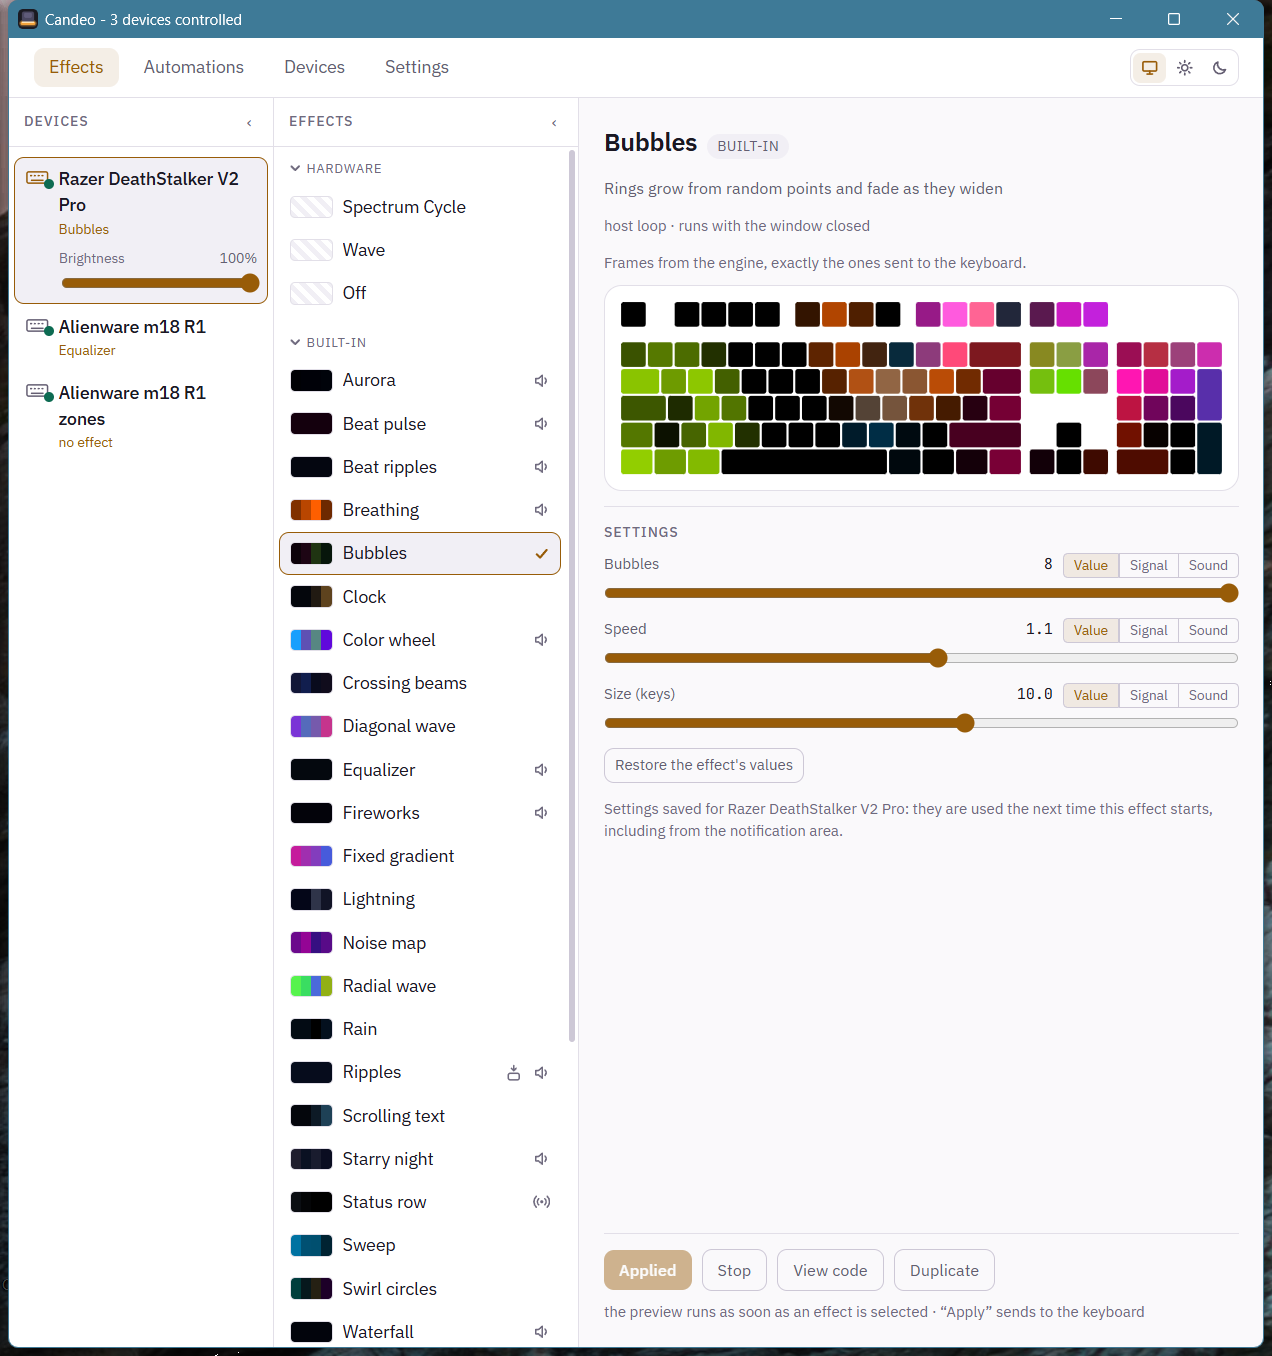
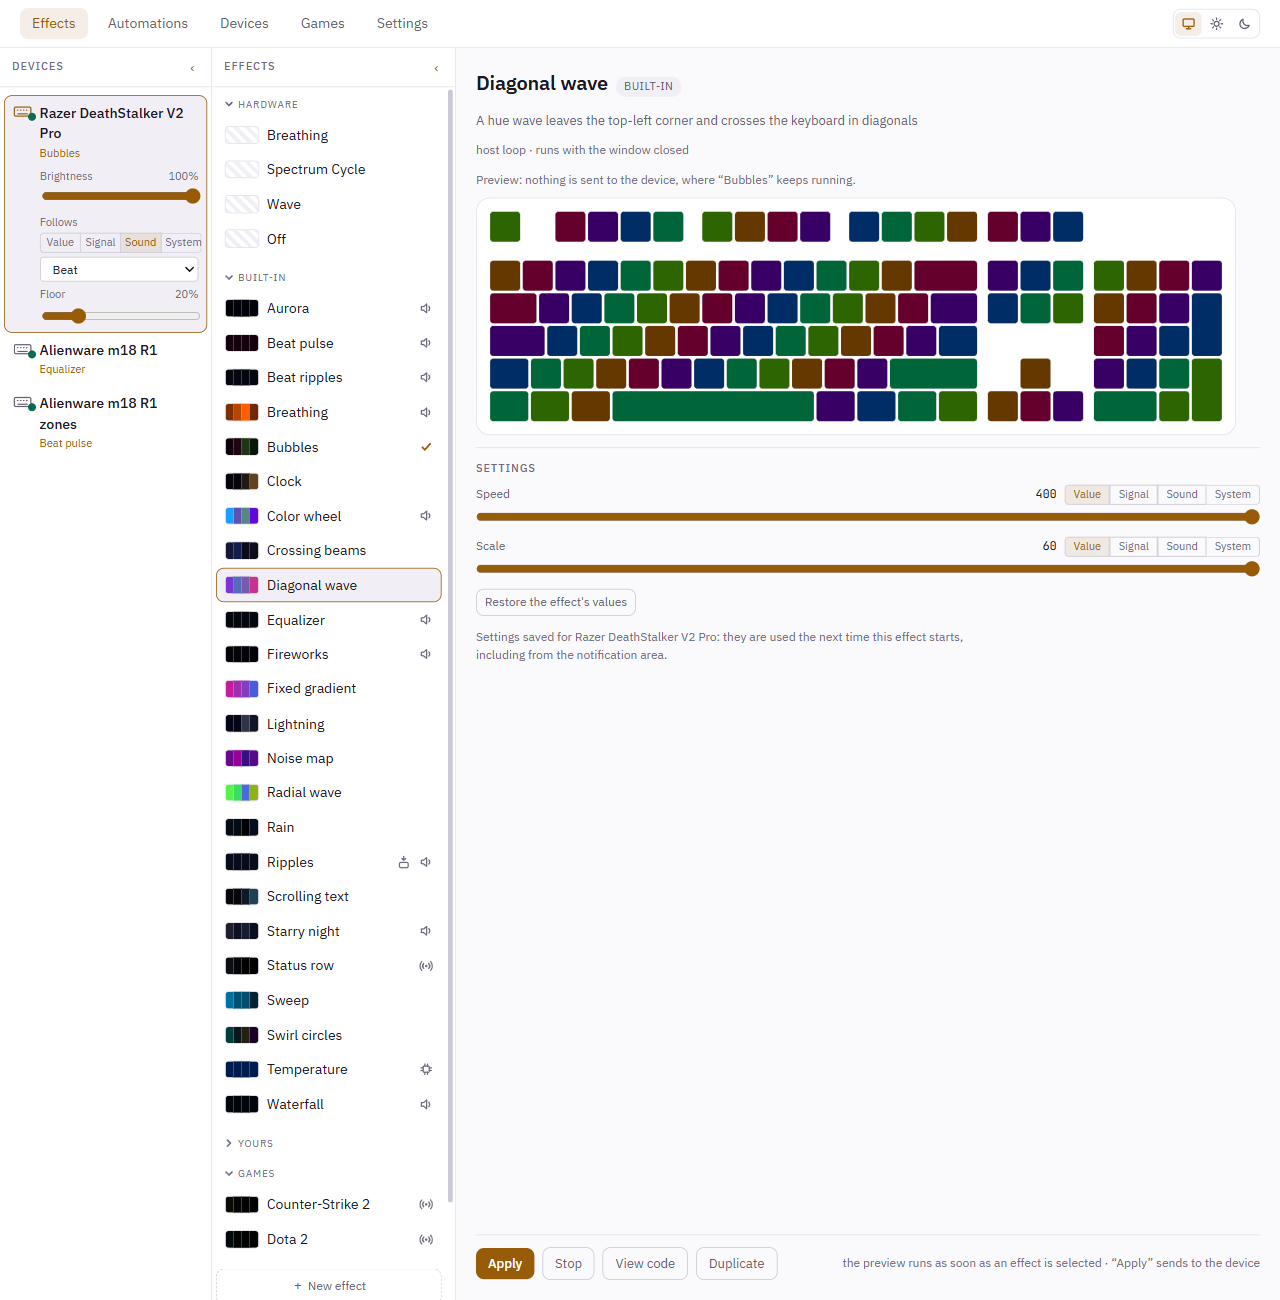
docs: refresh the Store listing, the site's counts and its gallery
Regions, games, system sources and the devices to try in both listings; twenty-six effects; a new gallery capture; the certification notes name every supported device.

Changed region(s): [[0.0, 0.0, 1.0, 1.0], [0.3986, 0.7692, 0.4292, 0.8]]

diff --git a/site/index.html b/site/index.html
@@ -6,7 +6,7 @@
     <title>Candeo — your keyboard's lights, your way</title>
     <meta
       name="description"
-      content="Light your keyboard your way: twenty-four effects, lights that follow your music, rules and signals from your other tools — without the maker's software, an account or anything sent anywhere. Free and open source."
+      content="Light your keyboard your way: twenty-six effects, lights that follow your music, rules and signals from your other tools — without the maker's software, an account or anything sent anywhere. Free and open source."
     />
     <link rel="icon" href="assets/icon.png" />
     <link rel="preconnect" href="https://fonts.googleapis.com" />
@@ -54,9 +54,9 @@
         <figure>
           <img
             src="assets/gallery.png"
-            alt="The Candeo gallery: the devices on the left, the effects in the middle marked by what they react to, and the effect applied drawn on a keyboard with its settings."
-            width="1272"
-            height="1356"
+            alt="The Candeo gallery: the devices on the left, the effects in the middle marked by what they react to, and the effect selected drawn on a keyboard with its settings."
+            width="1280"
+            height="1300"
           />
           <figcaption>Pick an effect, tune it while you watch, apply it.</figcaption>
         </figure>
@@ -79,7 +79,7 @@
       </section>
 
       <section>
-        <h2>Twenty-four effects, ready to go</h2>
+        <h2>Twenty-six effects, ready to go</h2>
         <div class="ways">
           <div class="way" style="--tint: linear-gradient(90deg, #ff3b3b, #ffb13b, #f5ff3b, #3bff6e, #3bd5ff, #6b3bff, #ff3bd5)">
             <h3>Colour and motion</h3>
@@ -170,7 +170,7 @@
         </p>
         <p>
           A laptop's lights split into regions, each with its own effect: the keyboard to the
-          music, the lid to the CPU's temperature.
+          music, the lid to how hot the computer runs.
         </p>
         <p>
           More keyboards and laptops — Razer, ASUS, SteelSeries, Logitech, HyperX, and seventeen

diff --git a/site/devices.html b/site/devices.html
@@ -55,8 +55,8 @@
           Where a device's lights sit in several places — the Alienware 17 R5's keyboard, lid and
           base, the ring and the logo of the m18 R1 — Devices can split it into regions. Each
           region then runs its own effect, with its own settings and its own way of following
-          the sound or a signal: the keyboard dancing to the music while the lid shows the CPU's
-          temperature.
+          the sound or a signal: the keyboard dancing to the music while the lid shows how hot the
+          computer runs.
         </p>
       </section>
 

diff --git a/site/effects.html b/site/effects.html
@@ -372,7 +372,7 @@ export default defineEffect({
       <section>
         <h2>Learn from the shipped ones</h2>
         <p>
-          The twenty-four effects that ship with Candeo are written against this same API. Open one
+          The twenty-six effects that ship with Candeo are written against this same API. Open one
           in the editor, or <strong>Duplicate</strong> it to make it yours:
           <a href="{{repository}}/tree/main/packages/effects">packages/effects</a>. An effect is a
           file: share it, drop one in <code>Documents\candeo\effects</code>, and

diff --git a/packaging/store/listing-fr.md b/packaging/store/listing-fr.md
@@ -10,13 +10,16 @@ L'éclairage de votre clavier, exactement comme vous le voulez, sans le logiciel
 
 ## Description
 
-Faites briller votre clavier exactement comme vous l'entendez. Candeo pilote chaque touche directement — vingt-quatre effets prêts à l'emploi, un aperçu en direct, des règles qui changent l'éclairage d'elles-mêmes — sans logiciel du fabricant, sans service en arrière-plan et sans compte.
+Faites briller votre clavier exactement comme vous l'entendez. Candeo pilote chaque touche directement — vingt-six effets prêts à l'emploi, un aperçu en direct, des règles qui changent l'éclairage d'elles-mêmes — sans logiciel du fabricant, sans service en arrière-plan et sans compte.
 
-Compatible avec le Razer DeathStalker V2 Pro (filaire), l'Alienware m18 R1, son clavier et ses zones lumineuses, et l'Alienware 17 R5. Un appareil pris en charge est nécessaire ; la liste s'allonge sur https://o2csi.github.io/candeo/devices.html.
+Compatible avec le Razer DeathStalker V2 Pro (filaire), l'Alienware m18 R1, son clavier et ses zones lumineuses, et l'Alienware 17 R5 — et d'autres claviers et portables à essayer, de Razer, ASUS, SteelSeries, Logitech, HyperX, Alienware et Dell. Un appareil pris en charge est nécessaire ; la liste s'allonge sur https://o2csi.github.io/candeo/devices.html.
 
 POINTS FORTS
-• Vingt-quatre effets prêts à l'emploi : des ondes qui suivent votre frappe, la pluie, un ciel étoilé, des éclairs, une horloge qui fait défiler l'heure sur les touches, le texte de votre choix qui défile de la même façon, des barres et des gerbes qui dansent sur la musique que vous écoutez, une rangée d'état pour ce que disent vos autres outils… Réglez chacun en le regardant.
+• Vingt-six effets prêts à l'emploi : des ondes qui suivent votre frappe, la pluie, un ciel étoilé, des éclairs, une horloge qui fait défiler l'heure sur les touches, le texte de votre choix qui défile de la même façon, des barres et des gerbes qui dansent sur la musique que vous écoutez, une rangée d'état pour ce que disent vos autres outils… Réglez chacun en le regardant.
 • Chaque touche, sa couleur : toute la matrice, des dégradés, et les effets intégrés au micrologiciel de votre appareil.
+• Un appareil, plusieurs effets : scindez les lumières d'un portable en régions, chacune avec son effet — le clavier qui danse sur la musique pendant que le capot montre la chaleur de l'ordinateur.
+• Vos jeux sur votre clavier : votre santé, vos munitions, les flashs et la bombe dans Counter-Strike 2, la vie, le mana et les étourdissements de votre héros dans Dota 2 — puis votre effet revient après la partie.
+• Votre ordinateur d'un coup d'œil : la charge du processeur et de la carte graphique, la mémoire et les températures peuvent piloter n'importe quel paramètre ou la luminosité.
 • Un éclairage qui suit votre journée : l'heure à chaque heure pile, le clavier éteint la nuit ou quand vous vous absentez — puis votre effet revient tout seul.
 • Écrivez les vôtres : un effet est un petit fichier TypeScript, prévisualisé en direct sur un simulateur de clavier avant d'atteindre le matériel. Modifiez-le dans Candeo ou dans l'éditeur dont vous avez l'habitude.
 • Des signaux venus de vos autres outils : un script de compilation ou Home Assistant dit à Candeo ce qui se passe. Une règle change l'éclairage tant que c'est le cas, ou n'importe quel paramètre de l'effet en cours suit la valeur envoyée — une couleur, une vitesse. Désactivé tant que vous ne l'activez pas.
@@ -28,9 +31,12 @@ Open source, sous licence GPL-3.0.
 
 ## Fonctionnalités (liste courte, affichée sur la page du Store)
 
-- Vingt-quatre effets prêts à l'emploi, réglables en les regardant
+- Vingt-six effets prêts à l'emploi, réglables en les regardant
 - Des effets qui dansent sur la musique que vous écoutez
 - Chaque touche sa couleur, et les effets du micrologiciel de votre appareil
+- Scindez un appareil en régions, un effet chacune
+- Counter-Strike 2 et Dota 2 sur votre clavier
+- La charge et la température du processeur et de la carte graphique pilotent l'éclairage
 - Automatisations : l'heure à chaque heure pile, éteint la nuit ou pendant votre absence
 - Écrivez vos propres effets en TypeScript, avec aperçu en direct
 - Continue de tourner fenêtre fermée, depuis la zone de notification

diff --git a/packaging/store/listing-en.md b/packaging/store/listing-en.md
@@ -11,13 +11,16 @@ Your keyboard's lighting, exactly the way you want it, without the maker's softw
 
 ## Description
 
-Make your keyboard light up exactly the way you want. Candeo drives every key directly — twenty-four ready-made effects, a live preview, rules that change the lighting on their own — without the maker's software, without a background service and without an account.
+Make your keyboard light up exactly the way you want. Candeo drives every key directly — twenty-six ready-made effects, a live preview, rules that change the lighting on their own — without the maker's software, without a background service and without an account.
 
-Works with the Razer DeathStalker V2 Pro (wired), the Alienware m18 R1, its keyboard and its lighting zones, and the Alienware 17 R5. A supported device is required; the list grows at https://o2csi.github.io/candeo/devices.html.
+Works with the Razer DeathStalker V2 Pro (wired), the Alienware m18 R1, its keyboard and its lighting zones, and the Alienware 17 R5 — and offers to try more keyboards and laptops from Razer, ASUS, SteelSeries, Logitech, HyperX, Alienware and Dell. A supported device is required; the list grows at https://o2csi.github.io/candeo/devices.html.
 
 HIGHLIGHTS
-• Twenty-four effects, ready to go: ripples that follow your typing, rain, a starry night, lightning, a clock that scrolls the time across the keys, any text you choose scrolling the same way, bars and bursts that dance to the music you play, a status row for what your other tools report… Tune each one while you watch it.
+• Twenty-six effects, ready to go: ripples that follow your typing, rain, a starry night, lightning, a clock that scrolls the time across the keys, any text you choose scrolling the same way, bars and bursts that dance to the music you play, a status row for what your other tools report… Tune each one while you watch it.
 • Every key, its own colour: the whole matrix, gradients, and the effects built into your device's firmware.
+• One device, several effects: split a laptop's lights into regions, each with its own effect — the keyboard dancing to the music while the lid shows how hot the computer runs.
+• Your games on your keyboard: your health, ammo, flashes and the bomb in Counter-Strike 2, your hero's health, mana and stuns in Dota 2 — then your effect comes back after the match.
+• Your computer, at a glance: CPU and GPU load, memory and temperatures can drive any setting or the brightness.
 • Lighting that follows your day: the time on the hour, the keyboard dark at night or when you step away — and your effect comes back on its own.
 • Write your own: an effect is a small TypeScript file, previewed live on a keyboard simulator before it reaches the hardware. Edit it in Candeo or in the editor you already use.
 • Signals from your other tools: a build script or Home Assistant tells Candeo what happened. A rule switches the lighting while it holds, or any setting of the effect running follows the value sent — a colour, a speed. Off until you turn it on.
@@ -29,9 +32,12 @@ Open source, under the GPL-3.0.
 
 ## Features (a short list, shown on the Store page)
 
-- Twenty-four ready-made effects, tuned while you watch them
+- Twenty-six ready-made effects, tuned while you watch them
 - Effects that dance to the music you play
 - Every key its own colour, plus your device's firmware effects
+- Split a device into regions, one effect each
+- Counter-Strike 2 and Dota 2 on your keyboard
+- CPU and GPU load and temperature drive the lighting
 - Automations: the time on the hour, dark at night or when you step away
 - Write your own effects in TypeScript, with a live preview
 - Keeps running with the window closed, from the notification area

diff --git a/README.md b/README.md
@@ -11,7 +11,7 @@ account, no extra services to install, nothing sent anywhere.
 **[o2csi.github.io/candeo](https://o2csi.github.io/candeo/)** ·
 **[Get it from the Microsoft Store](https://apps.microsoft.com/detail/9MXFM8QT1X7P)**
 
-![The Candeo gallery: the devices on the left, the effects in the middle, and the effect applied drawn on a keyboard with its settings.](site/assets/gallery.png)
+![The Candeo gallery: the devices on the left, the effects in the middle, and the effect selected drawn on a keyboard with its settings.](site/assets/gallery.png)
 
 ## Get started
 
@@ -24,7 +24,7 @@ account, no extra services to install, nothing sent anywhere.
 
 ## What it does
 
-- **Twenty-four effects, ready to go** — waves, rain, a starry night, a clock,
+- **Twenty-six effects, ready to go** — waves, rain, a starry night, a clock,
   scrolling text, ripples from the keys you press, fireworks on the beat. Tune
   each one while you watch it; your keyboard's own built-in effects are there
   too.
